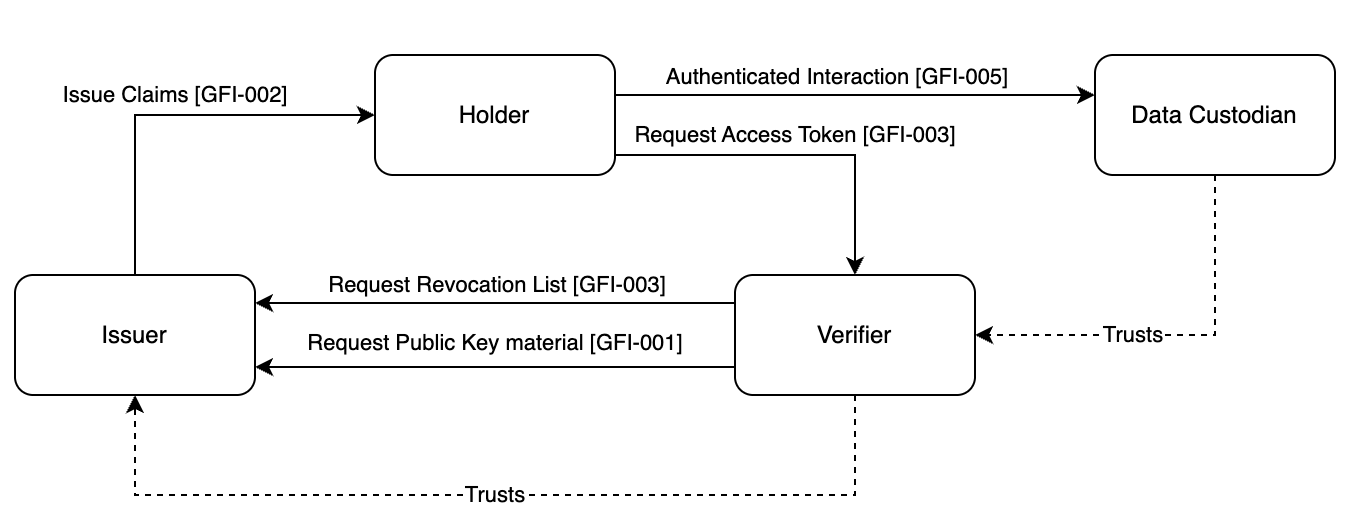
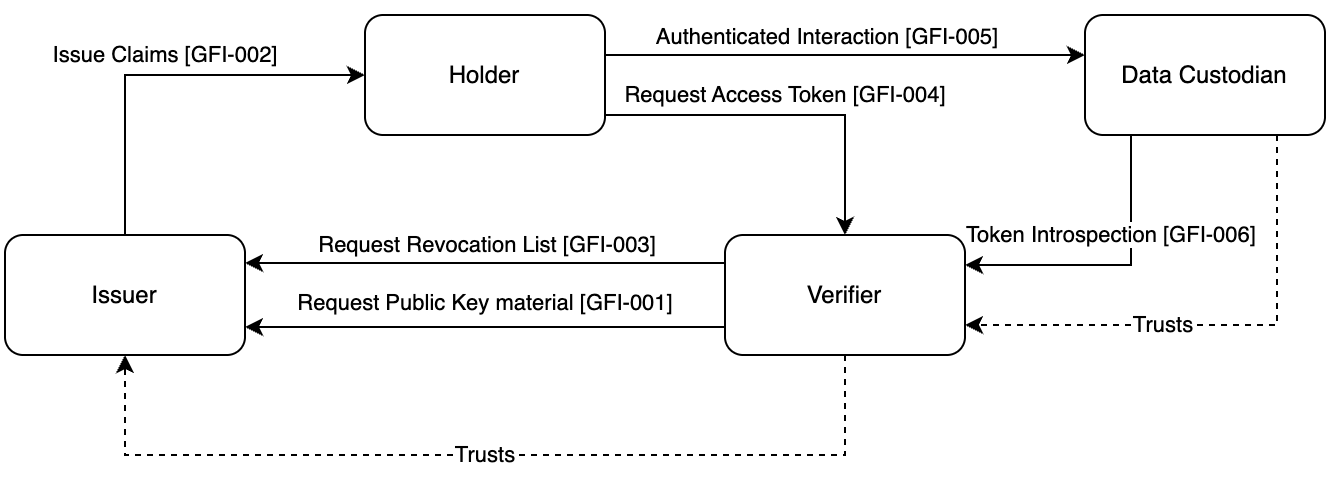
Add GFI-004 AT request
Adds detailed description about requesting an access token using RFC7523
and VPs.

diff --git a/input/pagecontent/GFI-004.md b/input/pagecontent/GFI-004.md
@@ -1,0 +1,197 @@
+# Scope
+
+The transaction Request Access Token is used by a client to obtain an access token from an authorization server. The client offers credentials from an holder to the authorization server which then verifies the credentials and answers with an access token that can be used to access a protected resource.
+
+In order to proof possession of the credentials, the holder uses its private key to sign a challenge provided by the verifier. This process is known as Demonstration of Proof-of-Possession (DPoP).
+
+This interaction is scoped on the interaction between two computers with not necessarily a human in the loop. Therefore the interaction is a back-channel interaction without a user-agent such as a web browser. For this reason the OAuth 2.0 Extension [RFC 7523](https://datatracker.ietf.org/doc/html/rfc7523) is used to offer the credentials in the form of a JWT assertion directly to the token endpoint without the use of a authorization request.
+
+### Actor Roles
+
+| Actor                           | Role                                                                                      |
+| ------------------------------- | ----------------------------------------------------------------------------------------- |
+| Holder (Client)                 | Requests an access token from the authorization server by offering verifiable credentials |
+| Verifier (Authorization Server) | Verifies the offered credentials and issues an access token                               |
+
+### Referenced standards
+
+- [OAuth 2.0 Authorization Framework](https://datatracker.ietf.org/doc/html/rfc6749)
+- [RFC 7523: JSON Web Token (JWT) Profile for OAuth 2.0 Client Authentication and Authorization Grants](https://datatracker.ietf.org/doc/html/rfc7523)
+- [Verifiable Credentials Data Model 1.1](https://www.w3.org/TR/2022/REC-vc-data-model-20220303/)
+- [OAuth 2.0 Demonstration of Proof-of-Possession (DPoP)](https://datatracker.ietf.org/doc/html/draft-ietf-oauth-dpop-04)
+
+### Messages
+
+1. Nonce Request
+2. Nonce Response
+3. Access Token Request
+4. Access Token Response
+
+<div>
+{% include GFI-004.svg %}
+</div>
+
+#### Nonce Request
+
+##### Trigger events
+
+- A client needs to obtain an access token from an authorization server and needs a nonce to include in the access token request.
+
+##### Message semantics
+
+The client initiates a nonce request using a HTTP POST request to the authorization server's nonce endpoint. No further parameters are required.
+
+##### Example
+
+Below is a non-normative example of a Nonce Request:
+
+```
+POST /nonce HTTP/1.1
+Host: example.com
+Content-Length: 0
+```
+
+#### Nonce Response
+
+##### Trigger events
+
+- The authorization server responds to the nonce request with a nonce that the client can use in the access token request.
+
+##### Message semantics
+
+The authorization server responds with a HTTP 200 OK response containing the nonce in the body of the response. The nonce is a random value that is used to prevent replay attacks.
+
+The nonce must be an opaque and non predictable value. Authorization server should implement a mechanism to ensure the nonce is only used once and has a limited lifetime.
+
+Due to the temporal nature of the nonce, the response should include a `Cache-Control: no-store` header to prevent caching of the nonce.
+
+##### Example
+
+Below is a non-normative example of a Nonce Response:
+
+```
+HTTP/1.1 200 OK
+Content-Type: application/json
+Cache-Control: no-store
+{
+  "nonce": "n-0S6_WzA2Mj"
+}
+```
+
+##### Expected Actions
+
+- The client extracts the nonce from the response and includes it in the access token request.
+- The authorization server stores the nonce and ensures it is only used once and has a limited lifetime.
+
+#### Access Token Request
+
+##### Trigger events
+
+- A client needs to obtain an access token from an authorization server and has obtained a nonce from the authorization server.
+
+##### Message semantics
+
+The client requests an access token from the authorization server using the OAuth 2.0 JWT bearer token flow as defined in [RFC 7523](https://datatracker.ietf.org/doc/html/rfc7523).
+
+If the client wants to bind the access token to a specific key, it can include a DPoP header in the request as defined in [OAuth 2.0 Demonstration of Proof-of-Possession (DPoP)](https://datatracker.ietf.org/doc/html/draft-ietf-oauth-dpop-04).
+
+Verifiable Credentials and Verifiable Presentations must be encoded as JWTs as defined in [Section 6.3.1 of the Verifiable Credentials Data Model 1.1](https://www.w3.org/TR/2022/REC-vc-data-model-20220303/#json-web-token).
+
+###### Request parameters
+
+The reqest must include the following information:
+
+- `grant_type`: Must be set to `urn:ietf:params:oauth:grant-type:jwt-bearer`
+- `assertion`: A JWT assertion in the form of a verifiable presentation containing the verifiable credentials offered by the holder. The JWT must be signed by the holder and the proof must contain the nonce obtained from the authorization server.
+- client_assertion: A JWT signed by the client to authenticate itself to the authorization server. The JWT is in the form of a Verifiable Presentation containing a verifiable credentials which contain the identifier of the client and its certifications/affiliations which authorizes the client to request the scopes it is requesting. Just like the `assertion` the `client_assertion` must also contain the nonce obtained from the authorization server to proof the ownership of the credentials.
+- `scope`: (Optional) A space-separated list of scopes that the client is requesting.
+
+###### Assertions
+
+**The assertion** and **the client_assertion** must include the following claims:
+
+- `iss`: The issuer of the JWT. For the `assertion` this is the identifier of the holder. For the `client_assertion` this is the identifier of the client.
+- `aud`: The audience of the JWT. This must be the identifier of the authorization server.
+- `jti`: A unique identifier for the JWT.
+- `nbf`: (Optional) The time before which the JWT must not be accepted for processing.
+- `iat`: The time at which the JWT was issued.
+- `exp`: The expiration time on or after which the JWT must not be accepted for processing.
+- `nonce`: The nonce obtained from the authorization server.
+- `vp`: The verifiable presentation containing the verifiable credentials. The `vp` claim must conform to the [Verifiable Credentials Data Model 1.0](https://www.w3.org/TR/vc-data-model/) specification.
+
+The request must be sent as a HTTP POST request to the authorization server's token endpoint with the `Content-Type` header set to `application/x-www-form-urlencoded`.
+
+##### Example
+
+Below is a non-normative example of an Access Token Request:
+
+```
+POST /token HTTP/1.1
+Host: example.com
+Content-Type: application/x-www-form-urlencoded
+grant_type=urn:ietf:params:oauth:grant-type:jwt-bearer&
+assertion=eyJhbGciOiJFUzI1NiIsInR5c&
+client-assertion-type=urn:ietf:params:oauth:client-assertion-type:jwt-bearer&
+client_assertion=eyJhbGciOiJFUzI1NiIsInR5c&
+scope=use-case1 use-case2
+```
+
+Below is a non-normative example of a JWT assertion in the form of a verifiable presentation:
+
+```json
+{
+  "iss": "did:example:ebfeb1f712ebc6f1c276e12ec21",
+  "jti": "urn:uuid:3978344f-8596-4c3a-a978-8fcaba3903c5",
+  "aud": "did:example:4a57546973436f6f6c4a4a57573",
+  "nbf": 1541493724,
+  "iat": 1541493724,
+  "exp": 1573029723,
+  "nonce": "n-0S6_WzA2Mj",
+  "vp": {
+    "@context": [
+      "https://www.w3.org/2018/credentials/v1",
+      "https://www.w3.org/2018/credentials/examples/v1"
+    ],
+    "type": ["VerifiablePresentation"],
+    "verifiableCredential": ["... verifiable credential ..."]
+  }
+}
+```
+
+#### Access Token Response
+
+##### Trigger events
+
+- The authorization server responds to the access token request with an access token that the client can use to access a protected resource.
+
+##### Message semantics
+
+The authorization server responds with a HTTP 200 OK response containing the access token in the body of the response. The response must include the following information:
+
+The access token is opaque to the client and the format is determined by the authorization server.
+
+If the client provided a DPoP header in the access token request, the authorization server must issue a DPoP-bound access token.
+
+- `access_token`: The access token issued by the authorization server.
+- `token_type`: The type of the token issued. Must be set to `Bearer` or `DPoP`.
+- `expires_in`: (Optional) The lifetime in seconds of the access token.
+- `scope`: (Optional) The scope of the access token.
+
+##### Example
+
+Below is a non-normative example of an Access Token Response:
+
+```
+HTTP/1.1 200 OK
+Content-Type: application/json
+{
+    "access_token": "SlAV32hkKG",
+    "token_type": "Bearer",
+    "expires_in": 3600,
+    "scope": "use-case1 use-case2"
+}
+```
+
+##### Expected Actions
+
+- The client extracts the access token from the response and uses it to access the protected resource.

diff --git a/input/pagecontent/authentication.md b/input/pagecontent/authentication.md
@@ -73,14 +73,16 @@ The claims can be verified by the verifier without the need of a central authori
 | --------- | ----------------------------------- | ---------------------- | ----------- | --------------------------- |
 | Verifier  | Request key material [GFI-001]      | Initiator              | R           | [\[GFI-001\]](GFI-001.html) |
 |           | Request Revocation status [GFI-003] | Initiator              | R           | [\[GFI-003\]](GFI-003.html) |
-|           | Request Access Token [GFI-004]      | Responder              | R           | [GFI-004]                   |
+|           | Request Access Token [GFI-004]      | Responder              | R           | [\[GFI-004\]](GFI-004.html) |
+|           | Introspect Access Token [GFI-006]   | Responder              | O           | [GFI-006]                   |
 | Holder    | Issue Claims \[GFI-002\]            | Responder              | O           | [\[GFI-002\]](GFI-002.html) |
-|           | Request Access Token [GFI-004]      | Initiator              | R           | [GFI-004]                   |
+|           | Request Access Token [GFI-004]      | Initiator              | R           | [\[GFI-004\]](GFI-004.html) |
 |           | Authenticated Interaction [GFI-005] | Initiator              | R           | [GFI-005]                   |
 | Issuer    | Issue Claims [GFI-002]              | Initiator              | O           | [GFI-002]                   |
 |           | Request key material [GFI-001]      | Responder              | R           | [\[GFI-001\]](GFI-001.html) |
 |           | Request Revocation status [GFI-003] | Responder              | R           | [\[GFI-003\]](GFI-003.html) |
-| Custodian | Authenticated Interaction [GFI-005] | Responder              | R           | [GFI-005]                   |
+| Custodian | Authenticated Interaction [GFI-005] | Responder              | R           | [\[GFI-005\]](GFI-005.html) |
+|           | Introspect Access Token [GFI-006]   | Initiator              | O           | [GFI-006]                   |
 
 {: .grid .table-striped}
 
@@ -138,89 +140,6 @@ The protocol to request access tokens is based on [RFC 7523](https://www.rfc-edi
 In order to prevent token theft, the access token must be bound to the client. This can be done using [DPoP (Demonstrating Proof-of-Possession at the Application Layer)](https://datatracker.ietf.org/doc/html/draft-ietf-oauth-dpop). DPoP is a mechanism to bind an access token to a private key, which is used to sign an aditional DPoP access token which is uniquely created for each request to the resource server.
 
 Verifiable credentials have a long lifetime, often several years. In order to be able to revoke a verifiable credential, a revocation mechanism is needed. The chosen revocation mechanism is [StatusList 2021](https://w3c-ccg.github.io/vc-status-list/), which defines a standard for revoking verifiable credentials using a bitstring. The verifier periodically retrieves (and caches) the statuslist and verifies the existance of the credential in the statuslist.
-
-##### Examples
-
-Example Verifiable Credential (VC) in JWT format:
-
-```json
-{
-  "iss": "did:web:example.com:issuer",
-  "sub": "did:web:example.com:user:alice",
-  "iat": 1516239022,
-  "exp": 1672531199,
-  "jti": "http://example.edu/credentials/3732",
-  "vc": {
-    "@context": [
-      "https://www.w3.org/2018/credentials/v1",
-      "https://www.w3.org/2018/credentials/examples/v1"
-    ],
-    "type": ["VerifiableCredential", "AlumniCredential"],
-    "credentialSubject": {
-      "id": "did:web:example.com:user:alice",
-      "alumniOf": {
-        "id": "did:web:example.com:university:example",
-        "name": [
-          {
-            "value": "Example University",
-            "lang": "en"
-          },
-          {
-            "value": "Voorbeeld Universiteit",
-            "lang": "nl"
-          }
-        ]
-      }
-    },
-    "credentialStatus": {
-      "id": "https://example.com/status/24#94567",
-      "type": "StatusList2021Entry",
-      "statusPurpose": "revocation",
-      "statusListIndex": "94567",
-      "statusListCredential": "https://example.com/status/24"
-    }
-  }
-}
-```
-
-Example of a Verifiable Presentation (VP) in JWT format:
-
-```json
-{
-  "iss": "did:web:example.com:user:alice",
-  "aud": "https://verifier.example.com",
-  "iat": 1516239022,
-  "exp": 1516239322,
-  "jti": "http://example.edu/presentations/3732",
-  "vp": {
-    "@context": [
-      "https://www.w3.org/2018/credentials/v1",
-      "https://www.w3.org/2018/credentials/examples/v1"
-    ],
-    "type": ["VerifiablePresentation"],
-    "verifiableCredential": [
-      {
-        // verifiable credential 1
-      },
-      {
-        // verifiable credential 2
-      }
-    ]
-  }
-}
-```
-
-Example of an tokenn request using RFC 7523 with a VP in the JWT Authorization Grant:
-
-```
-POST /token HTTP/1.1
-Host: oauth.example.com
-Content-Type: application/x-www-form-urlencoded
-grant_type=urn:ietf:params:oauth:grant-type:jwt-bearer&
-assertion=eyJhbGciOiJSUzI1NiIsImtpZCI6IjIyIn0...&
-client_assertion_type=urn:ietf:params:oauth:client-assertion-type:jwt-bearer&
-client_assertion=eyJhbGciOiJSUzI1NiIsImtpZCI6IjIyIn0...
-```
 
 #### Identity claims
 
